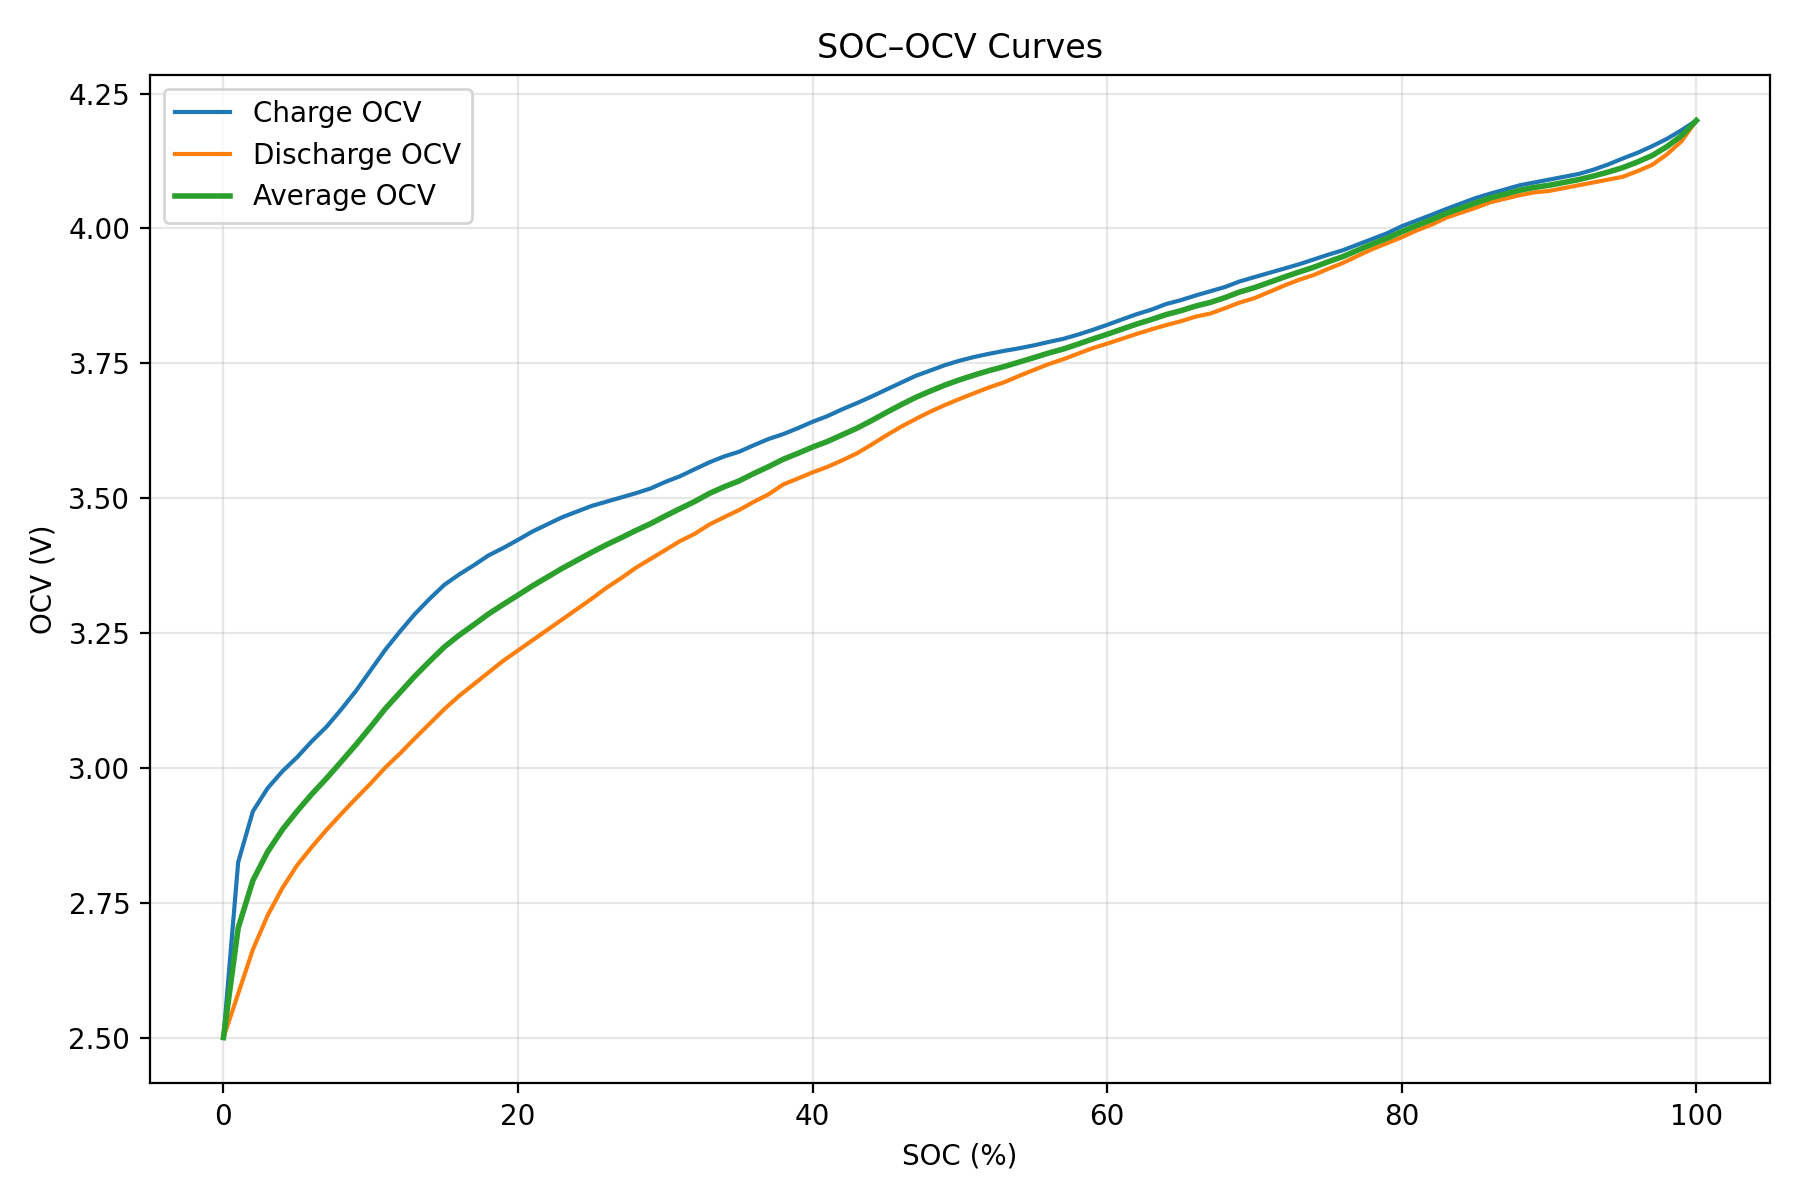
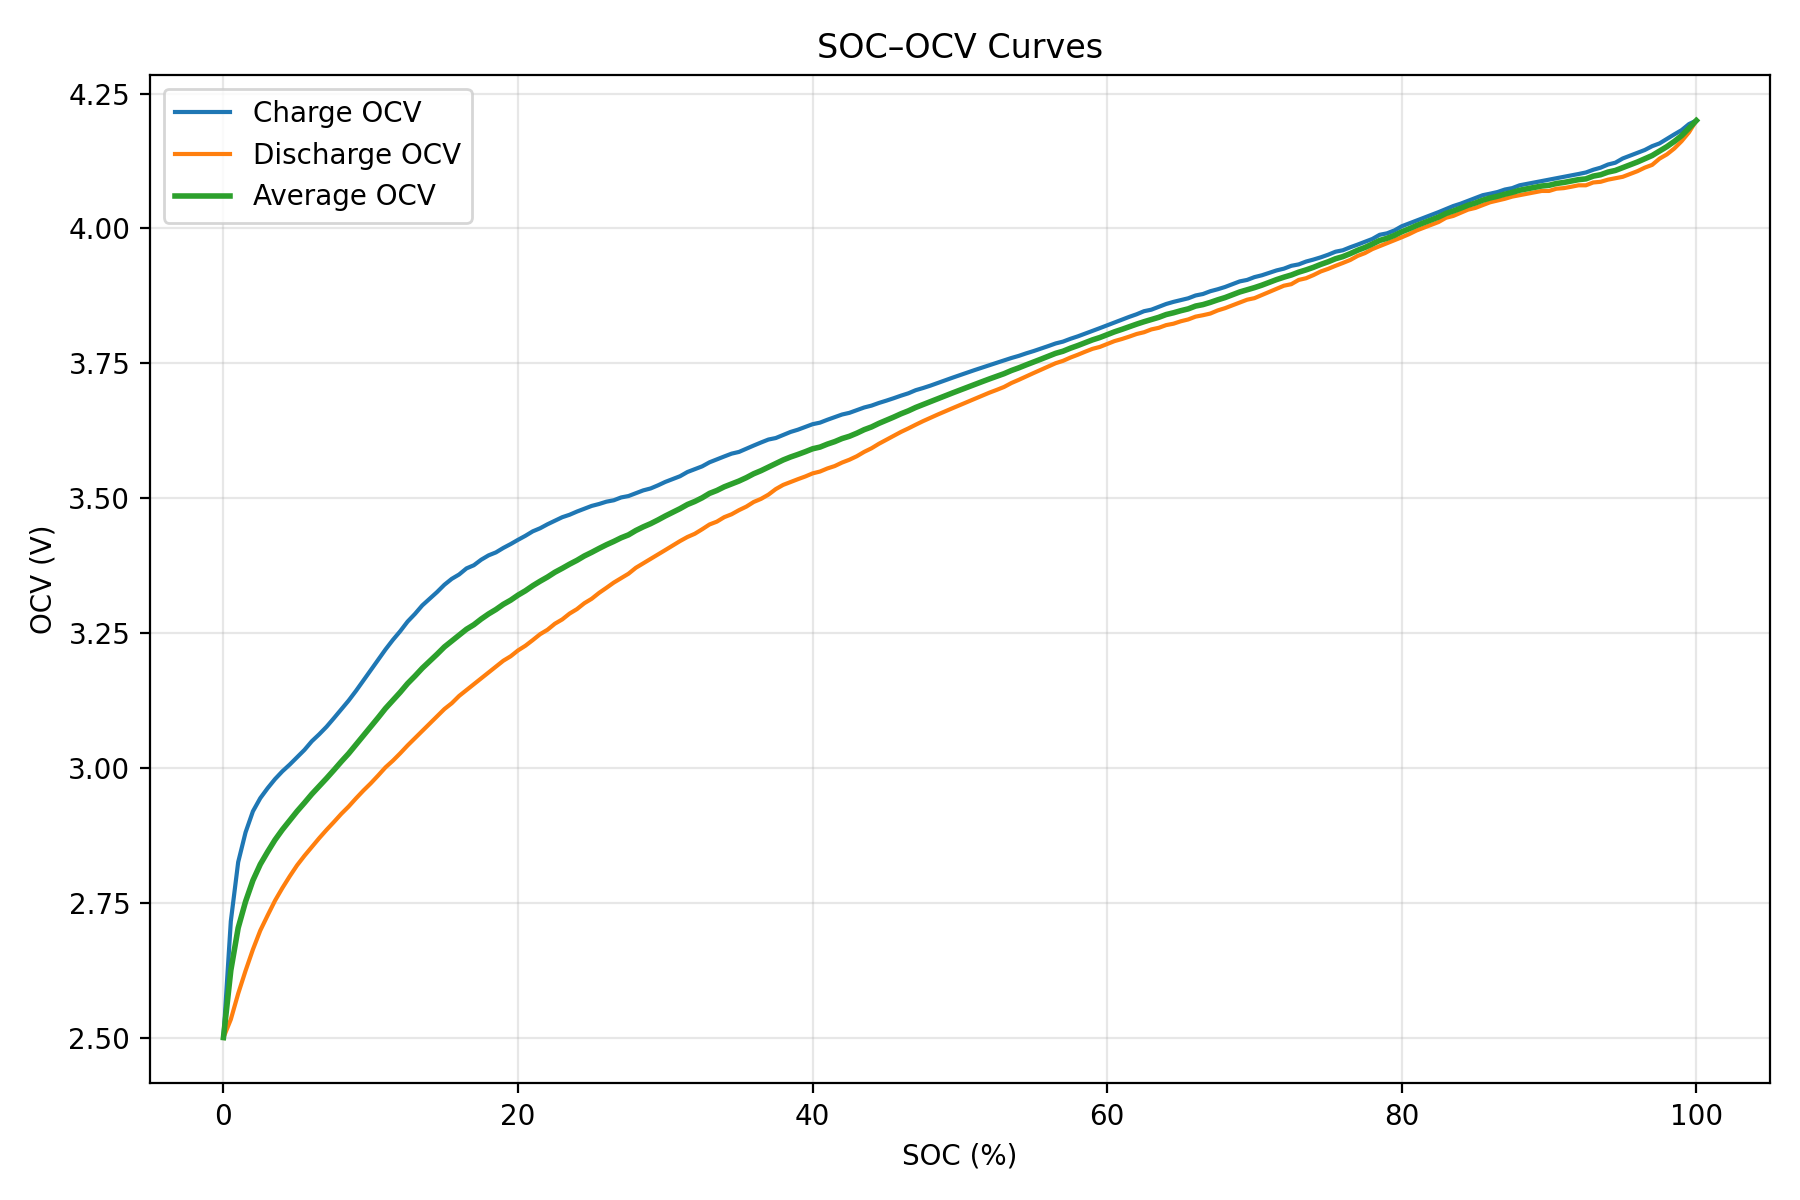
sync

Changed region(s): [[0.4356, 0.2775, 0.6222, 0.4008], [0.1244, 0.74, 0.1556, 0.8325], [0.8711, 0.1233, 0.9022, 0.1542]]

diff --git a/documentation/vscode/python/soc_ocv_processor.py b/documentation/vscode/python/soc_ocv_processor.py
@@ -111,7 +111,7 @@ MID_SOC_BLEND_STRENGTH = 1.0
 ENFORCE_MONOTONIC_AFTER_SMOOTHING = True
 
 # Number of samples in the generated common SOC grid.
-NUMBER_OF_OUTPUT_POINTS = 101
+NUMBER_OF_OUTPUT_POINTS = 201
 
 # Plot options.
 SHOW_PLOT = True
